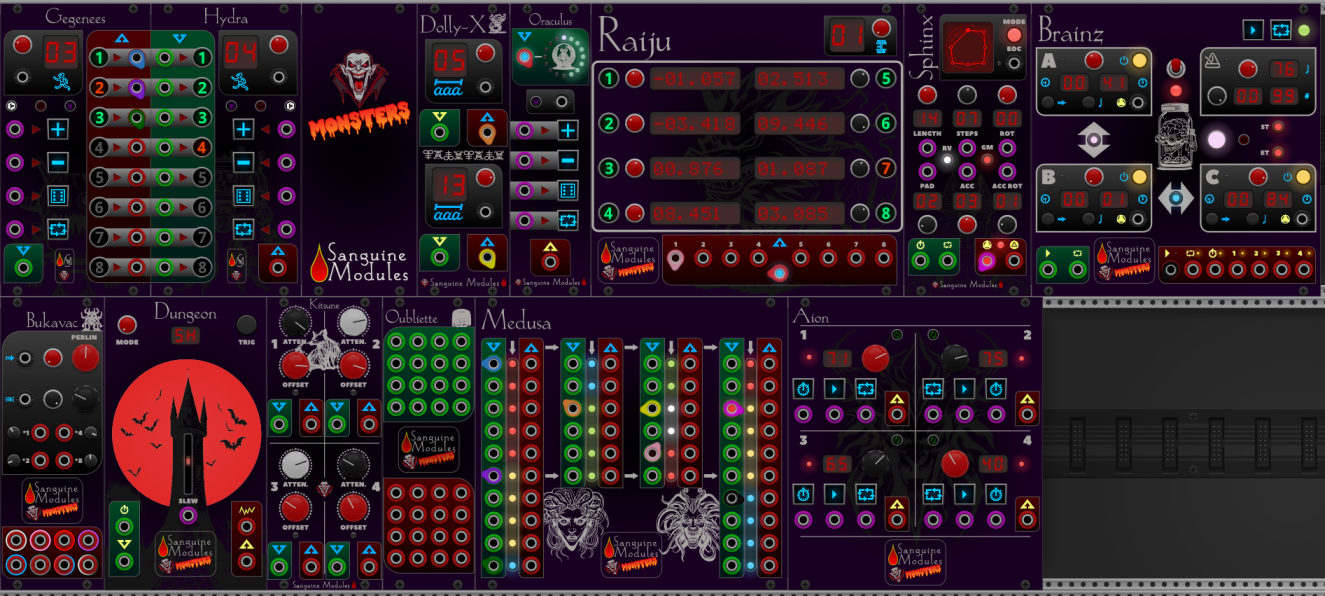
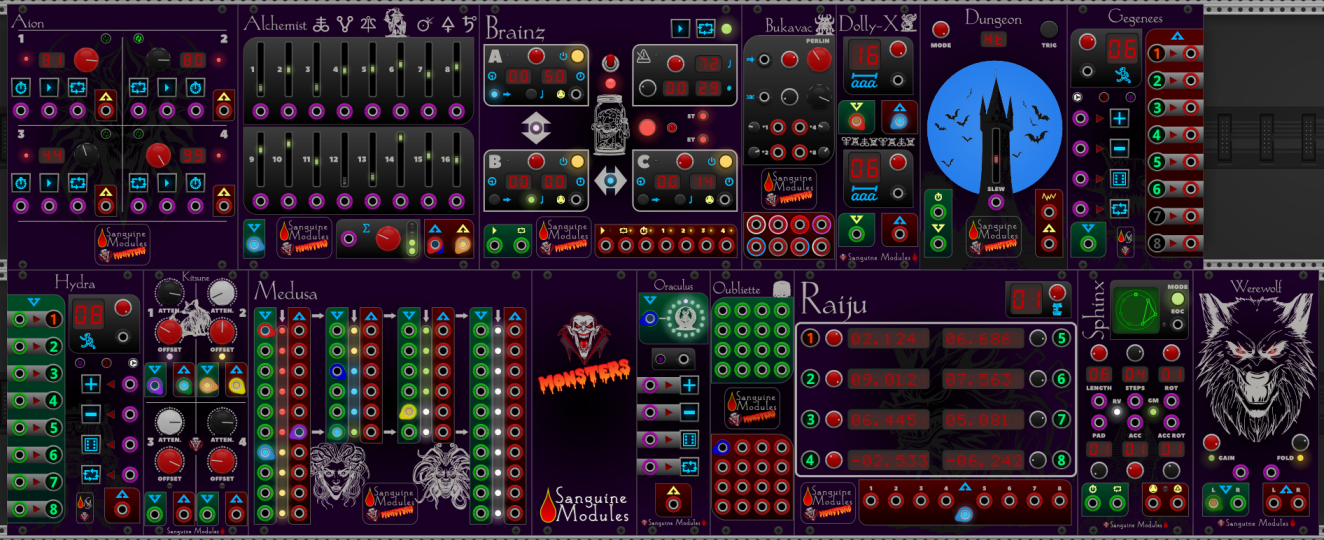
Update: info and family portrait.

diff --git a/README.md b/README.md
@@ -8,6 +8,10 @@
 
 A quad timer/counter that can be triggered externally or has an internal seconds clock.
 
+## Sanguine Alchemist
+
+A mixer for up to 16 channels gathered from a polyphonic cable. Mixed monophonic and polyphonic outputs are provided.
+
 ## Sanguine Brainz
 
 A utility to control multiple recorders and ease synchronizing their outputs in post.
@@ -40,6 +44,10 @@ An attenuverter, offsetter and inverter with four channels.
 
 A normalled, polyphonic mega multiple with 32 inputs and outputs.
 
+# Sanguine Monsters Blank
+
+Put a vampire and the Monsters logo in your rack!
+
 ## Sanguine Oraculus
 
 A polyphonic to monophonic switch.
@@ -56,6 +64,6 @@ A fixed voltages source.
 
 A Euclidean sequencer.
 
-# Sanguine Monsters Blank
+## Sanguine Werewolf
 
-Put a vampire and the Monsters logo in your rack!
+A polyphonic, stereo, dirty distortion.

diff --git a/CHANGELOG.md b/CHANGELOG.md
@@ -47,6 +47,10 @@
 
 - Add: Aion: a quad timer/counter that can be triggered externally or has an internal seconds clock.
 
+- Add: Werewolf: A polyphonic, stereo, dirty distortion.
+
+- Add: Alchemist: A mixer for up to 16 channels gathered from a polyphonic cable. Mixed monophonic and polyphonic outputs are provided.
+
 - Sphinx can now run in reverse.
 
 - Fix: Sphinx won't output an EOC trigger on the first round after starting or reset.
